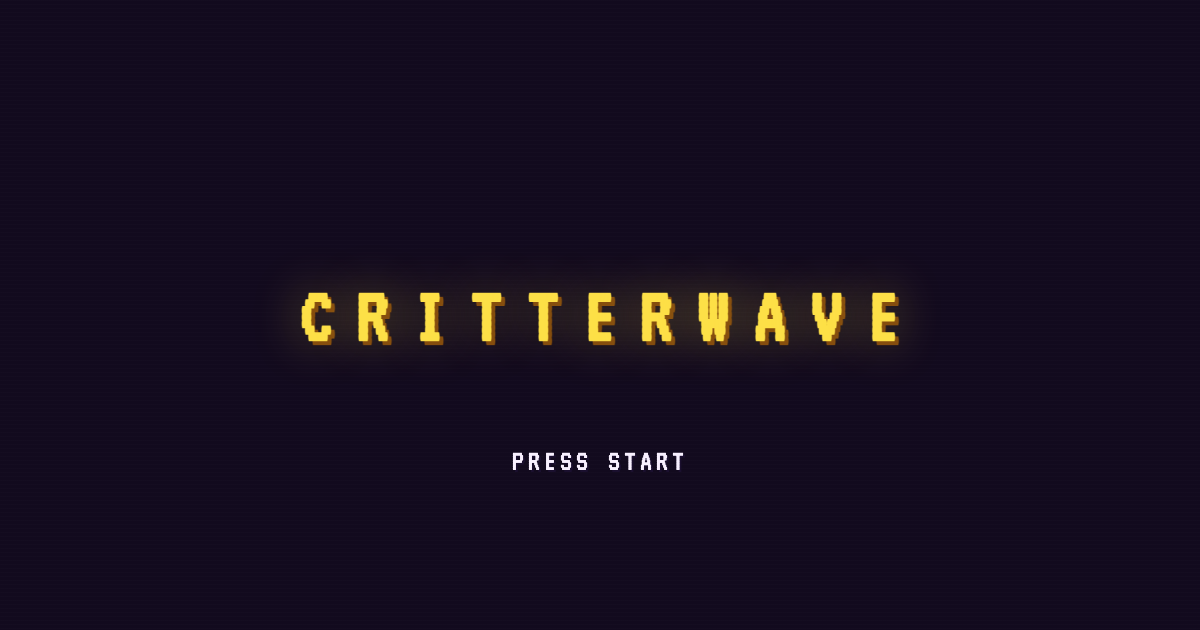
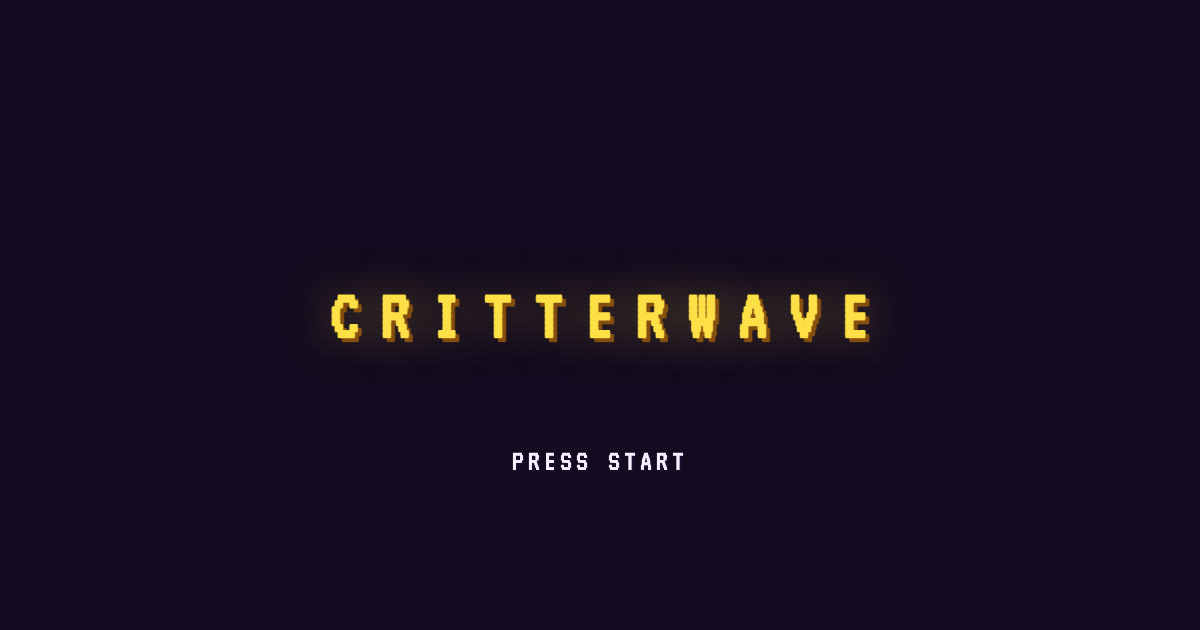
Tighten cover title crop margins

Changed region(s): [[0.2467, 0.4524, 0.7708, 0.5429]]

diff --git a/scripts/og-preview.html b/scripts/og-preview.html
@@ -50,8 +50,8 @@
         z-index: 1;
         display: flex;
         justify-content: space-between;
-        width: min(600px, 78%);
-        font-size: 82px;
+        width: min(540px, 72%);
+        font-size: 74px;
         line-height: 1;
         color: #fde047;
         text-shadow:
